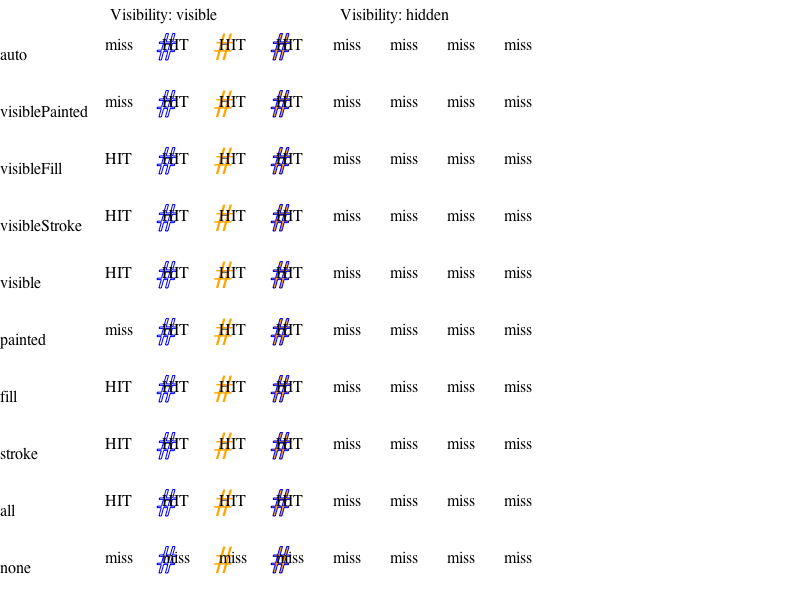
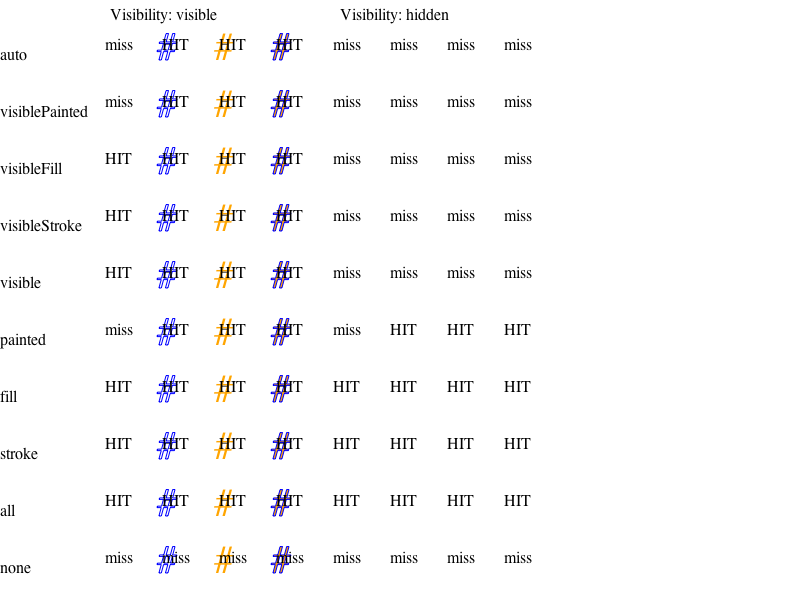
2011-06-21  Rob Buis  <rbuis@rim.com>
Reviewed by Dirk Schulze.

        All pointer-events fail if text has visibility="hidden"
        https://bugs.webkit.org/show_bug.cgi?id=62209

        Update test results (improvement).

        * platform/mac/svg/custom/pointer-events-text-expected.png:
        * platform/mac/svg/custom/pointer-events-text-expected.txt:
2011-06-21  Rob Buis  <rbuis@rim.com>

        Reviewed by Dirk Schulze.

        All pointer-events fail if text has visibility="hidden"
        https://bugs.webkit.org/show_bug.cgi?id=62209

        Use PointerEventsHitRules to make hit-testing for SVG text inline boxes work.

        No new tests; covered by existing test pointer-events-text.svg.

        * rendering/svg/SVGInlineTextBox.cpp:
        (WebCore::SVGInlineTextBox::nodeAtPoint):
        * rendering/svg/SVGInlineTextBox.h:

Identifier: 78694@main
git-svn-id: https://svn.webkit.org/repository/webkit/trunk@89381 268f45cc-cd09-0410-ab3c-d52691b4dbfc

diff --git a/Source/WebCore/rendering/svg/SVGInlineTextBox.cpp b/Source/WebCore/rendering/svg/SVGInlineTextBox.cpp
@@ -26,7 +26,9 @@
 #include "FloatConversion.h"
 #include "FontCache.h"
 #include "GraphicsContext.h"
+#include "HitTestResult.h"
 #include "InlineFlowBox.h"
+#include "PointerEventsHitRules.h"
 #include "RenderBlock.h"
 #include "RenderSVGInlineText.h"
 #include "RenderSVGResource.h"
@@ -722,6 +724,29 @@ IntRect SVGInlineTextBox::calculateBoundaries() const
     }
 
     return enclosingIntRect(textRect);
+}
+
+bool SVGInlineTextBox::nodeAtPoint(const HitTestRequest& request, HitTestResult& result, const IntPoint& pointInContainer, const IntPoint& accumulatedOffset, int, int)
+{
+    // FIXME: integrate with InlineTextBox::nodeAtPoint better.
+    ASSERT(!isLineBreak());
+
+    PointerEventsHitRules hitRules(PointerEventsHitRules::SVG_TEXT_HITTESTING, request, renderer()->style()->pointerEvents());
+    bool isVisible = renderer()->style()->visibility() == VISIBLE;
+    if (isVisible || !hitRules.requireVisible) {
+        if ((hitRules.canHitStroke && (renderer()->style()->svgStyle()->hasStroke() || !hitRules.requireStroke))
+            || (hitRules.canHitFill && (renderer()->style()->svgStyle()->hasFill() || !hitRules.requireFill))) {
+            FloatPoint boxOrigin = locationIncludingFlipping();
+            boxOrigin.moveBy(accumulatedOffset);
+            FloatRect rect(boxOrigin, IntSize(width(), height()));
+            if (rect.intersects(result.rectForPoint(pointInContainer))) {
+                renderer()->updateHitTestResult(result, pointInContainer - toSize(accumulatedOffset));
+                if (!result.addNodeToRectBasedTestResult(renderer()->node(), pointInContainer, rect))
+                    return true;
+             }
+        }
+    }
+    return false;
 }
 
 } // namespace WebCore

diff --git a/Source/WebCore/rendering/svg/SVGInlineTextBox.h b/Source/WebCore/rendering/svg/SVGInlineTextBox.h
@@ -77,6 +77,8 @@ private:
     void paintTextWithShadows(GraphicsContext*, RenderStyle*, TextRun&, const SVGTextFragment&, int startPosition, int endPosition);
     void paintText(GraphicsContext*, RenderStyle*, RenderStyle* selectionStyle, const SVGTextFragment&, bool hasSelection, bool paintSelectedTextOnly);
 
+    virtual bool nodeAtPoint(const HitTestRequest&, HitTestResult&, const IntPoint& pointInContainer, const IntPoint& accumulatedOffset, int lineTop, int lineBottom);
+
 private:
     int m_logicalHeight;
     int m_paintingResourceMode;
